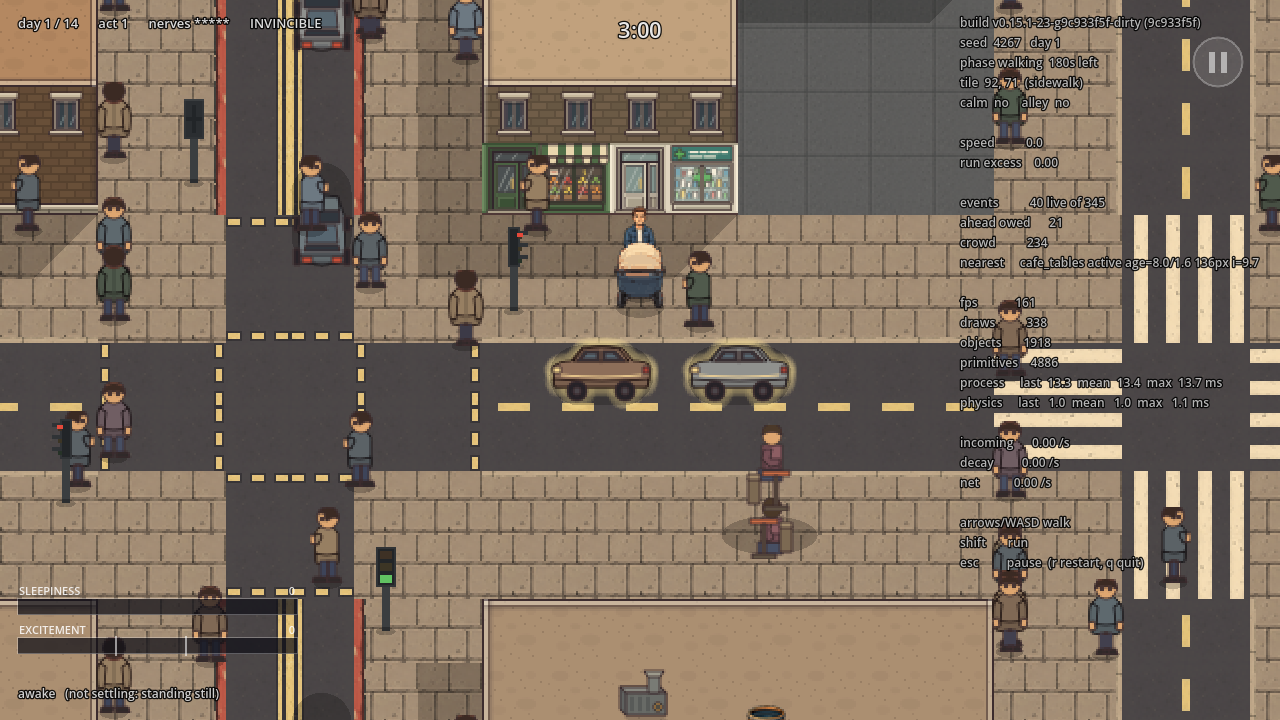
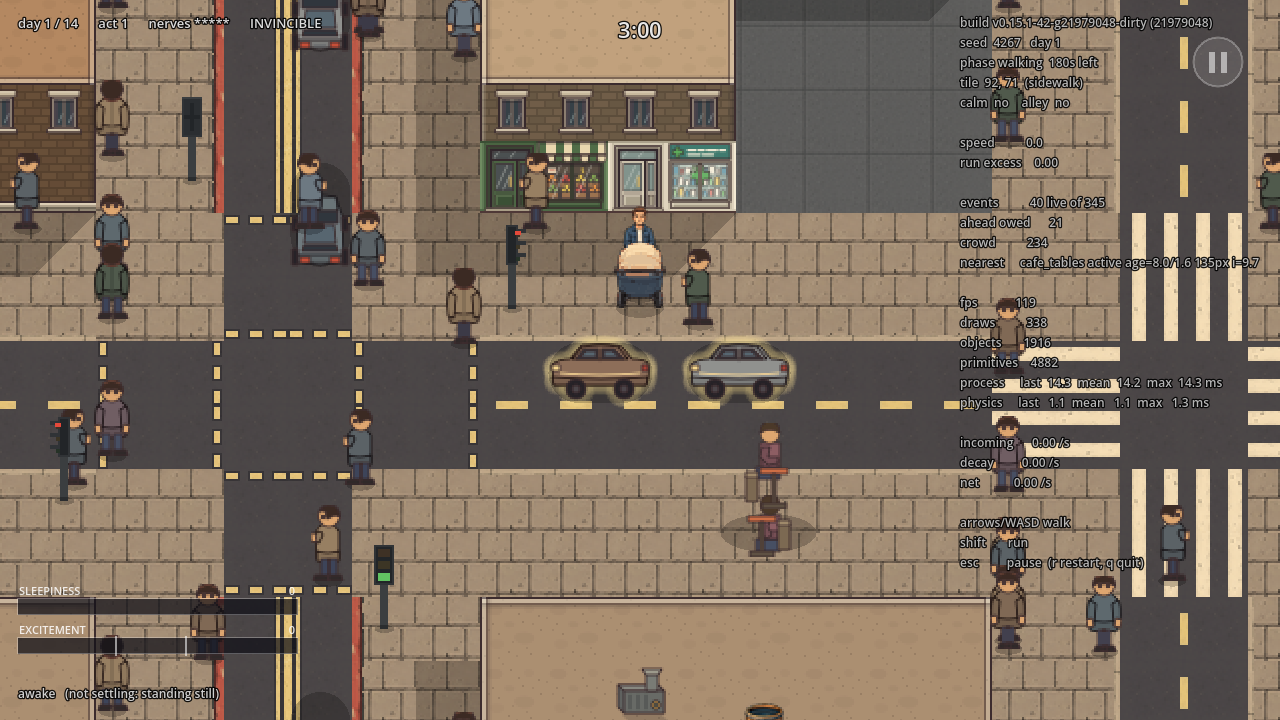
M186 fire escape: the stacked escape's pictures, drawn by Building itself
The player asked to "show example buildings with the new fire ladder code", so the whole-front
and fire-escape sheets are rendered by the game's own Building node from the baked atlas rather
than assembled by a script: render-fronts.tscn places real Building nodes, tries lots until
Building's own roll gives the escape a front must carry, and saves the drawn frame.

- fire-escape-stack-{gamescale,4x}.png (new): five-, four-, three- and two-story residential
  fronts with escapes a and b, and a two-story front that rolled an escape and carries none.
- fronts-after-{gamescale,4x}.png: every kind of front, now drawn by Building.
- fire-escape.png: main's two pictures and this branch's four, at game scale and 4x.
- in-game/after-*.png: all eight stills retaken on the merged tree.
- README.md: what each picture is and the command that produced it.

diff --git a/docs/evidence/building-fronts-redrawn-2026-09-23/README.md b/docs/evidence/building-fronts-redrawn-2026-09-23/README.md
@@ -6,28 +6,62 @@ same pictures in both.
 
 ## Whole fronts
 
-`fronts-{before,after}-gamescale.png` and `fronts-{before,after}-4x.png` assemble fronts the way
+`fronts-before-{gamescale,4x}.png` assemble fronts from `main`'s pictures the way
 `src/city/building.gd` draws them — tinted wall and roof cells, windows (lifted two pixels over a
 door or storefront), corners, plinth or storefronts, then door, fire escape and portico, then the
-roof and its parapets — for a residential front with a door and fire escape A, a tall-sash one
-with escape B, an industrial front with its steel door, a commercial one with storefronts, a
-civic one with the portico, a home-block front keeping its ground-floor windows, a boarded
-commercial block, a burnt residential one and a one-row sliver. Game scale is the 1x raster blown
-up 2x nearest, the camera's own zoom; 4x is the SVGs rendered at scale 4. The mother beside each
-is for size only. The window lighting and layouts are chosen for the sheet, not rolled by a seed.
+roof and its parapets — with a scratch compositor, for a residential front with a door and fire
+escape A, a tall-sash one with escape B, an industrial front with its steel door, a commercial
+one with storefronts, a civic one with the portico, a home-block front keeping its ground-floor
+windows, a boarded commercial block, a burnt residential one and a one-row sliver. Game scale is
+the 1x raster blown up 2x nearest, the camera's own zoom; 4x is the SVGs rendered at scale 4. The
+mother beside each is for size only, and the window lighting and layouts were chosen for the
+sheet.
+
+`fronts-after-{gamescale,4x}.png` are drawn by the game's own `Building` node instead, from the
+baked atlas, by `render-fronts.tscn` (below) with `--set fronts`: two residential fronts with
+escapes a and b, a two-story residential front, an industrial, a commercial and a civic front,
+her own building, a boarded commercial block and a burnt residential one with an escape. Every
+roll — windows lit, window style, storefronts, the door's column, the escape — is the one
+`Building` makes for the lot the script placed it on; only the escape a front must carry was
+asked for, by trying lots until the roll gave it. `--zoom 2` is the camera's own zoom, `--zoom 4`
+enlarged.
+
+## The fire escape
+
+`fire-escape-stack-{gamescale,4x}.png` are drawn by `Building` the same way, `--set fire-escape`:
+a five-story front with escape a and one with escape b, a four-story and two three-story fronts,
+and a two-story front whose own roll gave it an escape that it does not carry, since a front of
+two floors carries none. Each escape has a balcony on every floor line from the top floor's down
+to the first floor's, the flight of each hanging down to the next, and the platform alone on the
+first floor's, so the ground floor under it holds only the brackets.
+
+`fire-escape.png` shows `main`'s two fire-escape pictures and this branch's four —
+`fire_escape_{a,b}` and `fire_escape_platform_{a,b}` — at game scale and at 4x over the tinted
+wall, rendered through Godot's SVG parser one by one.
+
+| Picture | Command, in the worktree after `tools/check.sh` |
+|---|---|
+| `fire-escape-stack-gamescale.png` | `godot --path . res://docs/evidence/building-fronts-redrawn-2026-09-23/render-fronts.tscn -- --output fire-escape-stack-gamescale.png --set fire-escape --zoom 2 --no-save` |
+| `fire-escape-stack-4x.png` | the same with `--zoom 4` |
+| `fronts-after-gamescale.png` | the same with `--set fronts --zoom 2` |
+| `fronts-after-4x.png` | the same with `--set fronts --zoom 4` |
+
+The scene needs a window (a drawn frame is what it saves) and runs as a scene rather than with
+`--script`, because `Building` calls into the `Tuning` autoload.
 
 ## Families
 
-`facade-kit-tiles.png`, `facade-kit-windows.png`, `fire-escape.png` and `civic-portico.png` show
-each redrawn piece before and after, at game scale and at 4x, over the tinted wall (or roof, for
-the parapets). `facade-kit-seams.png` repeats the tinted wall and roof three by three to show
-there is no join.
+`facade-kit-tiles.png`, `facade-kit-windows.png` and `civic-portico.png` show each redrawn piece
+before and after, at game scale and at 4x, over the tinted wall (or roof, for the parapets).
+`facade-kit-seams.png` repeats the tinted wall and roof three by three to show there is no join.
 
 ## In the game
 
 `in-game/{before,after}-<street>.png`, 1280×720, day 1, taken with `tools/shot.sh` on this
 machine. Each proves what that street looked like on that seed in that build; the HUD and the
 developer readout are on because the rig draws them.
+The `after` stills are of the tree in the commit that adds them, so they carry the stacked fire
+escape and `main`'s plain wall behind her front door.
 
 | Still | Command (after `tools/shot.sh out.png <wait>`) |
 |---|---|
